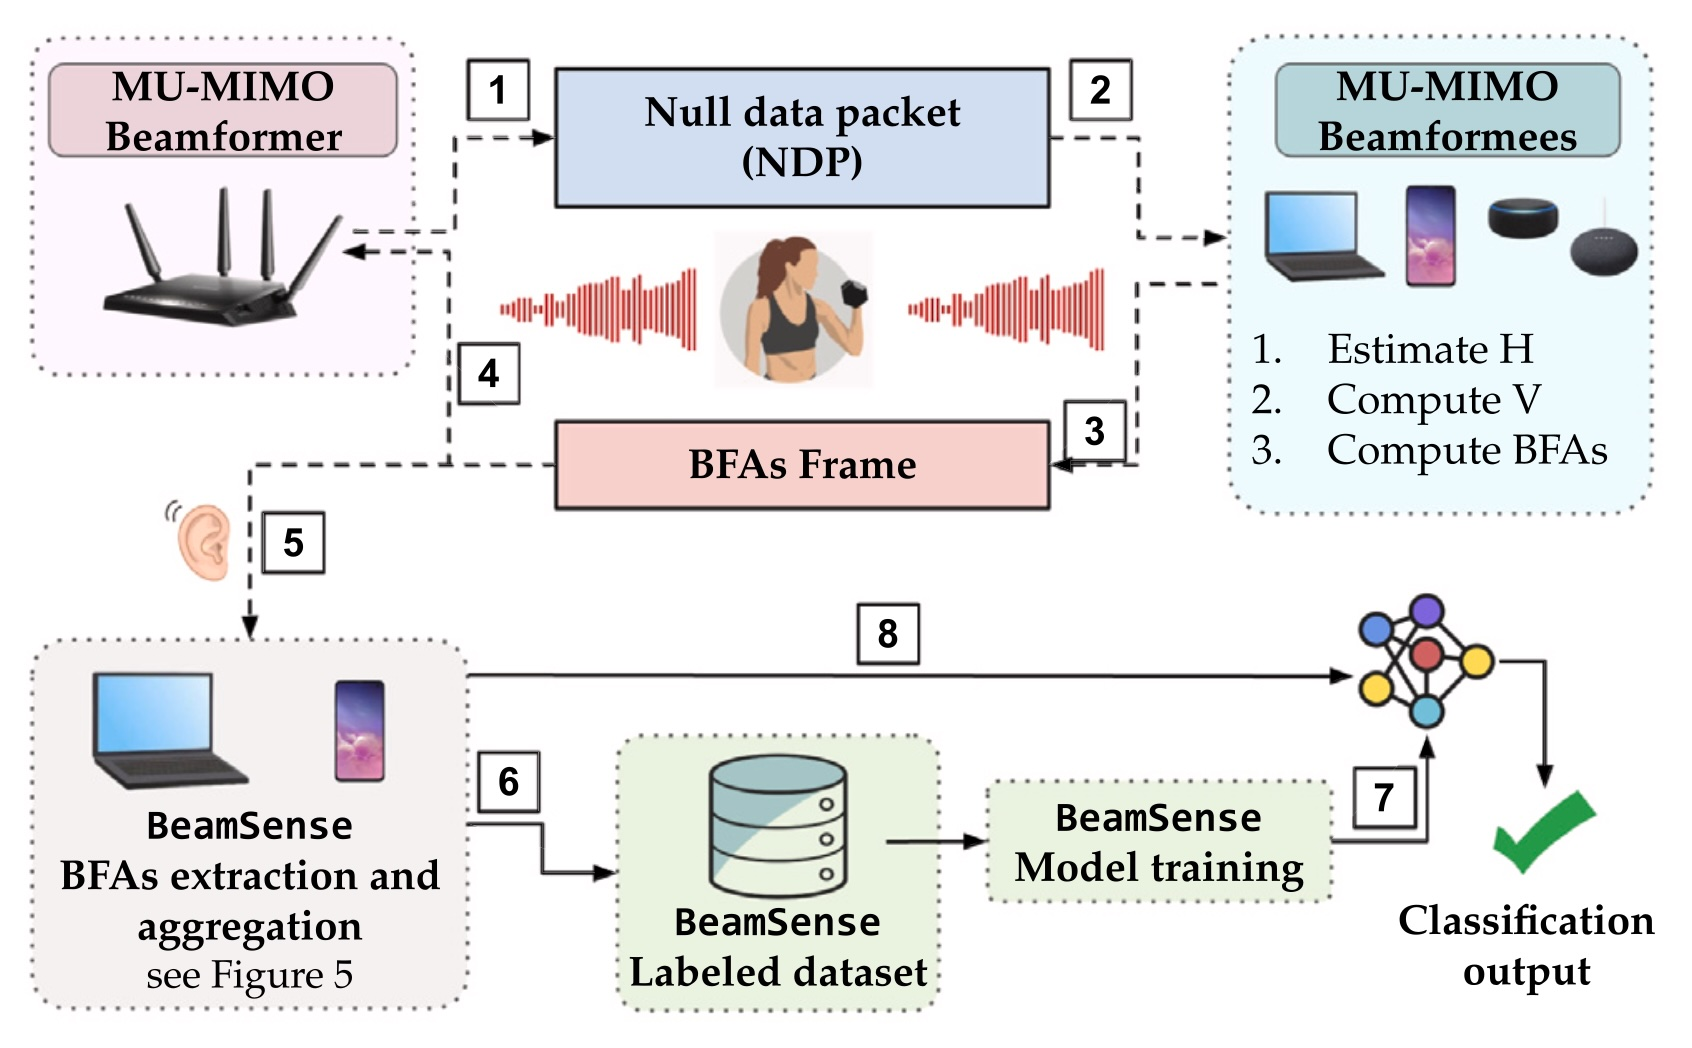
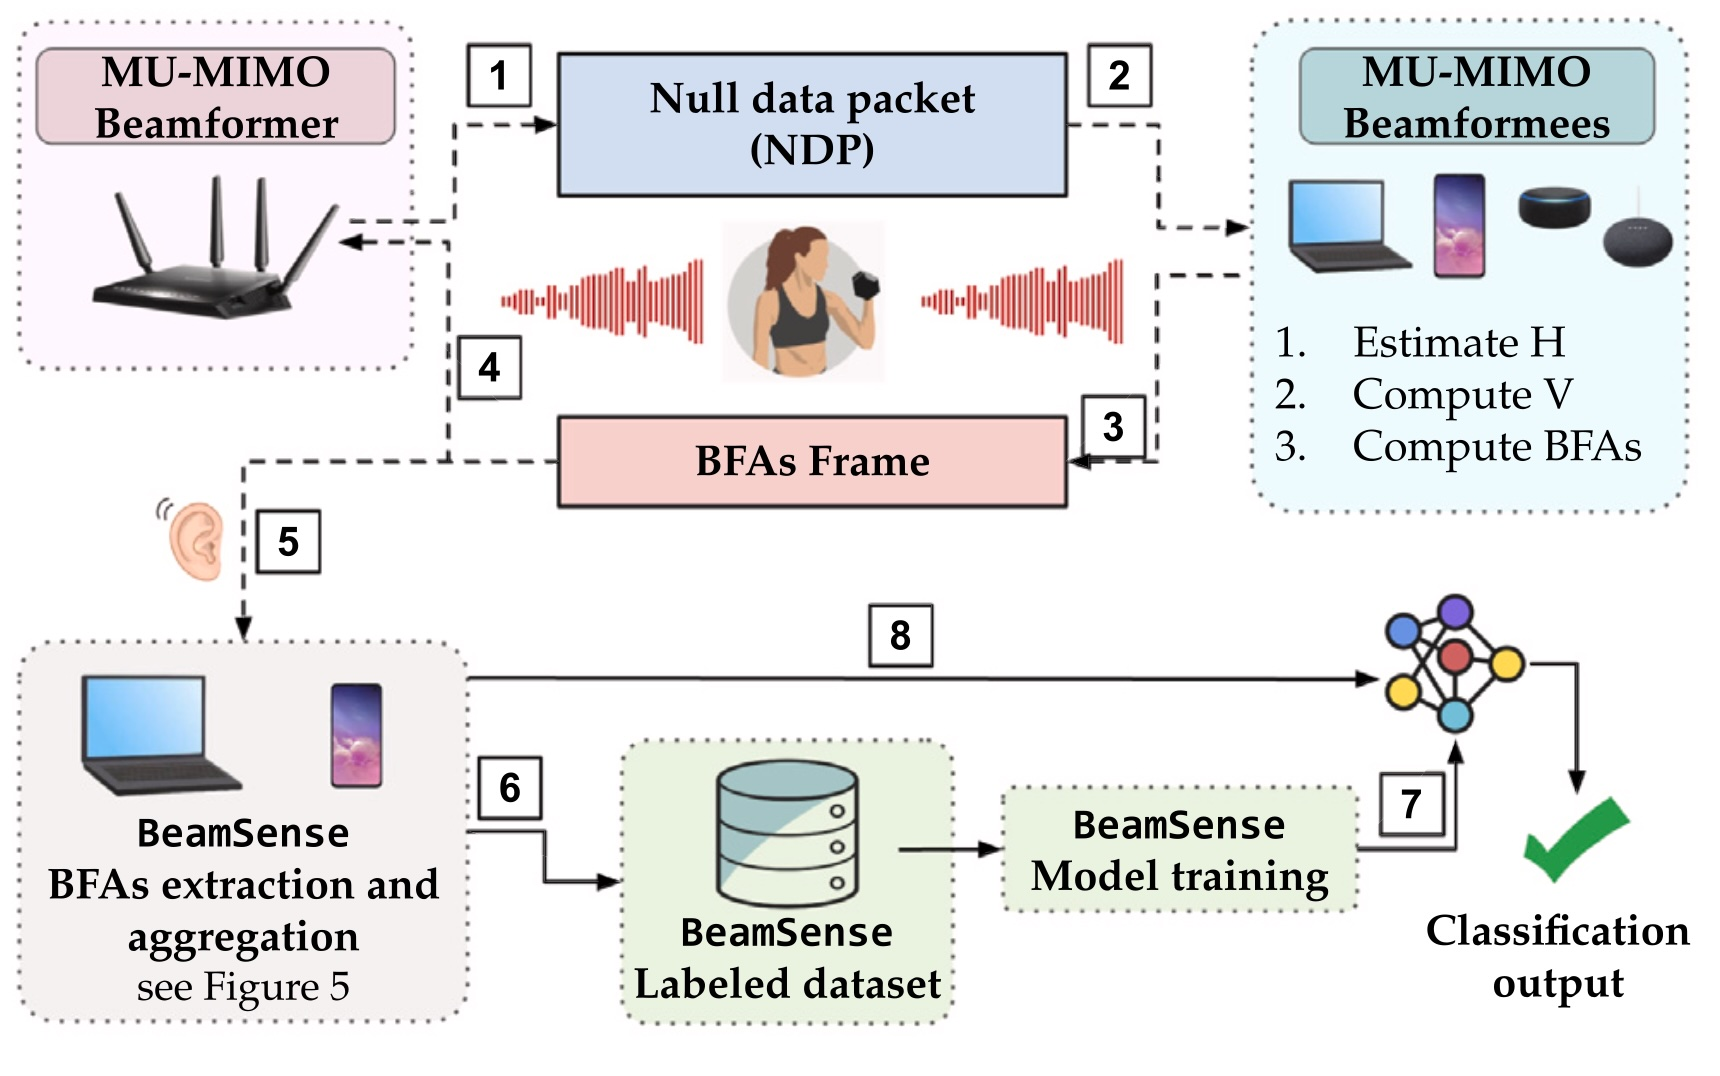
u

diff --git a/_projects/1_project.md b/_projects/1_project.md
@@ -24,12 +24,12 @@ Our work spans four major contributions:
         {% include figure.liquid loading="eager" path="assets/img/Wi-BFI.jpg" title="Wi-BFI Overview" class="img-fluid rounded z-depth-1" %}
     </div>
     <div class="col-sm mt-3 mt-md-0">
-        {% include figure.liquid loading="eager" path="assets/img/quantization_tradeoff.jpg" title="Impact of feedback quantization/grouping" class="img-fluid rounded z-depth-1" %}
+        {% include figure.liquid loading="eager" path="assets/img/BeamSense.jpg" title="BeamSense Overview" class="img-fluid rounded z-depth-1" %}
     </div>
 </div>
 <div class="caption">
     Left: Wi-BFI can concurrently extract BFAs from devices operating with different standards, channels, and bandwidths.  
-    Right: Quantization and grouping reduce overhead but may affect BER.
+    Right: BeamSense, a new approach to Wi-Fi sensing where the standard-compliant BFAs routinely sent in MU-MIMO Wi-Fi networks is used to characterize the propagation environment between the MU-MIMO users and the AP
 </div>
 
 ---
